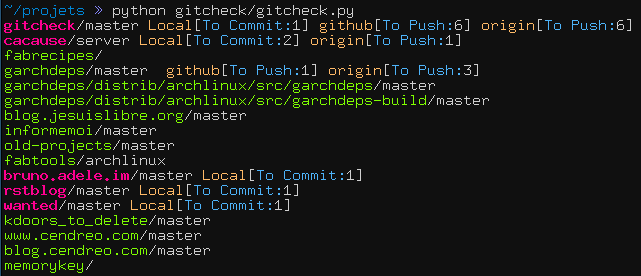
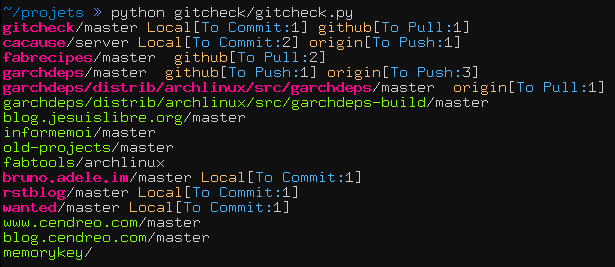
Support du pull pour gitcheck

Changed region(s): [[0.0, 0.0, 0.9886, 0.9888], [0.9577, 0.2996, 0.9886, 0.3596], [0.8959, 0.3296, 0.9268, 0.3596]]

diff --git a/projets/gitcheck.rst b/projets/gitcheck.rst
@@ -5,6 +5,8 @@ Gitcheck
 
 Lorsque vous travaillez sur plusieurs dépots git, il est désagréable de devoir parcourir chaque projet un à un pour voir si des modifications ont été commitées. C'est pour cela que j'ai crée ce script qui permet de savoir quels sont les projets non commités.
 
+Gitcheck permet de vérifier si vos modifications doivent être commitées, si elle doivent être pushées ou vérifier si il y'a des modifications sur les dépots distants.
+
 
 Utilisation
 -----------
@@ -19,7 +21,7 @@ Utilisation
 
 **Version simplifiée**
 
-Affiche le status de chaque dépôt, avec pour chaque projet git le nombre de fichier modifiés ainsi que pour chaque dépôts les push non encore effectués.
+Affiche le status de chaque dépôt, avec pour chaque projet git le nombre de fichier modifiés ainsi que pour chaque dépôts les push/pull non encore effectués.
 
 
 .. image:: /static/gitcheck.png
